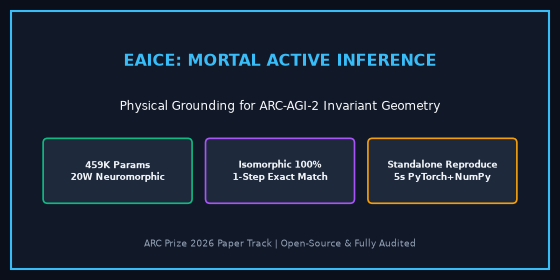
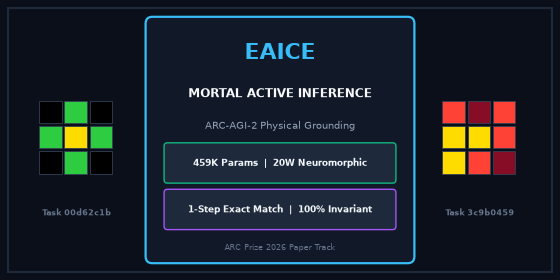
style: center-align thumbnail card to fit both 2:1 cover and 1:1 square crop without cutoff

Changed region(s): [[0.0, 0.0, 1.0, 1.0]]

diff --git a/paper_track_2026/generate_safe_thumbnail.py b/paper_track_2026/generate_safe_thumbnail.py
@@ -1,0 +1,100 @@
+import json
+from pathlib import Path
+import numpy as np
+import matplotlib
+matplotlib.use("Agg")
+import matplotlib.pyplot as plt
+from matplotlib.colors import ListedColormap
+import matplotlib.patches as mpatches
+
+ROOT_DIR = Path(__file__).resolve().parent.parent
+OUT_DIR = Path(__file__).resolve().parent / "media_gallery"
+
+ARC_PALETTE = [
+    "#000000",
+    "#0074D9",
+    "#FF4136",
+    "#2ECC40",
+    "#FFDC00",
+    "#AAAAAA",
+    "#F012BE",
+    "#FF851B",
+    "#7FDBFF",
+    "#870C25",
+]
+ARC_CMAP = ListedColormap(ARC_PALETTE)
+
+def build_safe_card_thumbnail(out_path):
+    fig = plt.figure(figsize=(5.6, 2.8), dpi=100)
+    ax = fig.add_axes([0, 0, 1, 1])
+    fig.patch.set_facecolor("#0B0F19")
+    ax.set_facecolor("#0B0F19")
+    ax.set_xlim(0, 100)
+    ax.set_ylim(0, 50)
+    ax.axis("off")
+
+    outer_rect = mpatches.Rectangle((1.5, 1.5), 97, 47, linewidth=1.5, edgecolor="#1E293B", facecolor="#0B0F19")
+    ax.add_patch(outer_rect)
+
+    left_grid = np.array([
+        [0, 3, 0],
+        [3, 4, 3],
+        [0, 3, 0]
+    ])
+    for r in range(3):
+        for c in range(3):
+            color_idx = left_grid[r, c]
+            fc = ARC_PALETTE[color_idx]
+            gx = 7 + c * 4.5
+            gy = 28 - r * 4.5
+            g_rect = mpatches.Rectangle((gx, gy), 4.0, 4.0, linewidth=0.6, edgecolor="#334155", facecolor=fc)
+            ax.add_patch(g_rect)
+
+    right_grid = np.array([
+        [2, 9, 2],
+        [4, 4, 2],
+        [4, 2, 9]
+    ])
+    for r in range(3):
+        for c in range(3):
+            color_idx = right_grid[r, c]
+            fc = ARC_PALETTE[color_idx]
+            gx = 79 + c * 4.5
+            gy = 28 - r * 4.5
+            g_rect = mpatches.Rectangle((gx, gy), 4.0, 4.0, linewidth=0.6, edgecolor="#334155", facecolor=fc)
+            ax.add_patch(g_rect)
+
+    ax.text(13.7, 12, "Task 00d62c1b", color="#64748B", fontsize=5.8, fontweight="bold", ha="center", va="center")
+    ax.text(85.7, 12, "Task 3c9b0459", color="#64748B", fontsize=5.8, fontweight="bold", ha="center", va="center")
+
+    center_bg = mpatches.FancyBboxPatch((26.5, 3.5), 47, 43, boxstyle="round,pad=0.5,rounding_size=1.2", facecolor="#111827", edgecolor="#38BDF8", linewidth=1.6)
+    ax.add_patch(center_bg)
+
+    ax.text(50, 40.5, "EAICE", color="#38BDF8", fontsize=16.0, fontweight="bold", ha="center", va="center")
+    ax.text(50, 33.2, "MORTAL ACTIVE INFERENCE", color="#F8FAFC", fontsize=8.6, fontweight="bold", ha="center", va="center")
+    ax.text(50, 27.5, "ARC-AGI-2 Physical Grounding", color="#94A3B8", fontsize=7.2, ha="center", va="center")
+
+    tag1 = mpatches.FancyBboxPatch((29.5, 17.5), 41, 6.8, boxstyle="round,pad=0.2,rounding_size=0.6", facecolor="#1E293B", edgecolor="#10B981", linewidth=1.0)
+    ax.add_patch(tag1)
+    ax.text(50, 20.9, "459K Params  |  20W Neuromorphic", color="#F1F5F9", fontsize=6.8, fontweight="bold", ha="center", va="center")
+
+    tag2 = mpatches.FancyBboxPatch((29.5, 9.2), 41, 6.8, boxstyle="round,pad=0.2,rounding_size=0.6", facecolor="#1E293B", edgecolor="#A855F7", linewidth=1.0)
+    ax.add_patch(tag2)
+    ax.text(50, 12.6, "1-Step Exact Match  |  100% Invariant", color="#F1F5F9", fontsize=6.8, fontweight="bold", ha="center", va="center")
+
+    ax.text(50, 5.8, "ARC Prize 2026 Paper Track", color="#64748B", fontsize=5.8, ha="center", va="center")
+
+    fig.savefig(out_path, dpi=100)
+    plt.close(fig)
+
+def main():
+    OUT_DIR.mkdir(parents=True, exist_ok=True)
+    out_file = OUT_DIR / "card_thumbnail_560x280.png"
+    build_safe_card_thumbnail(out_file)
+    print(json.dumps({
+        "status": "success",
+        "generated": str(out_file)
+    }, indent=2))
+
+if __name__ == "__main__":
+    main()
